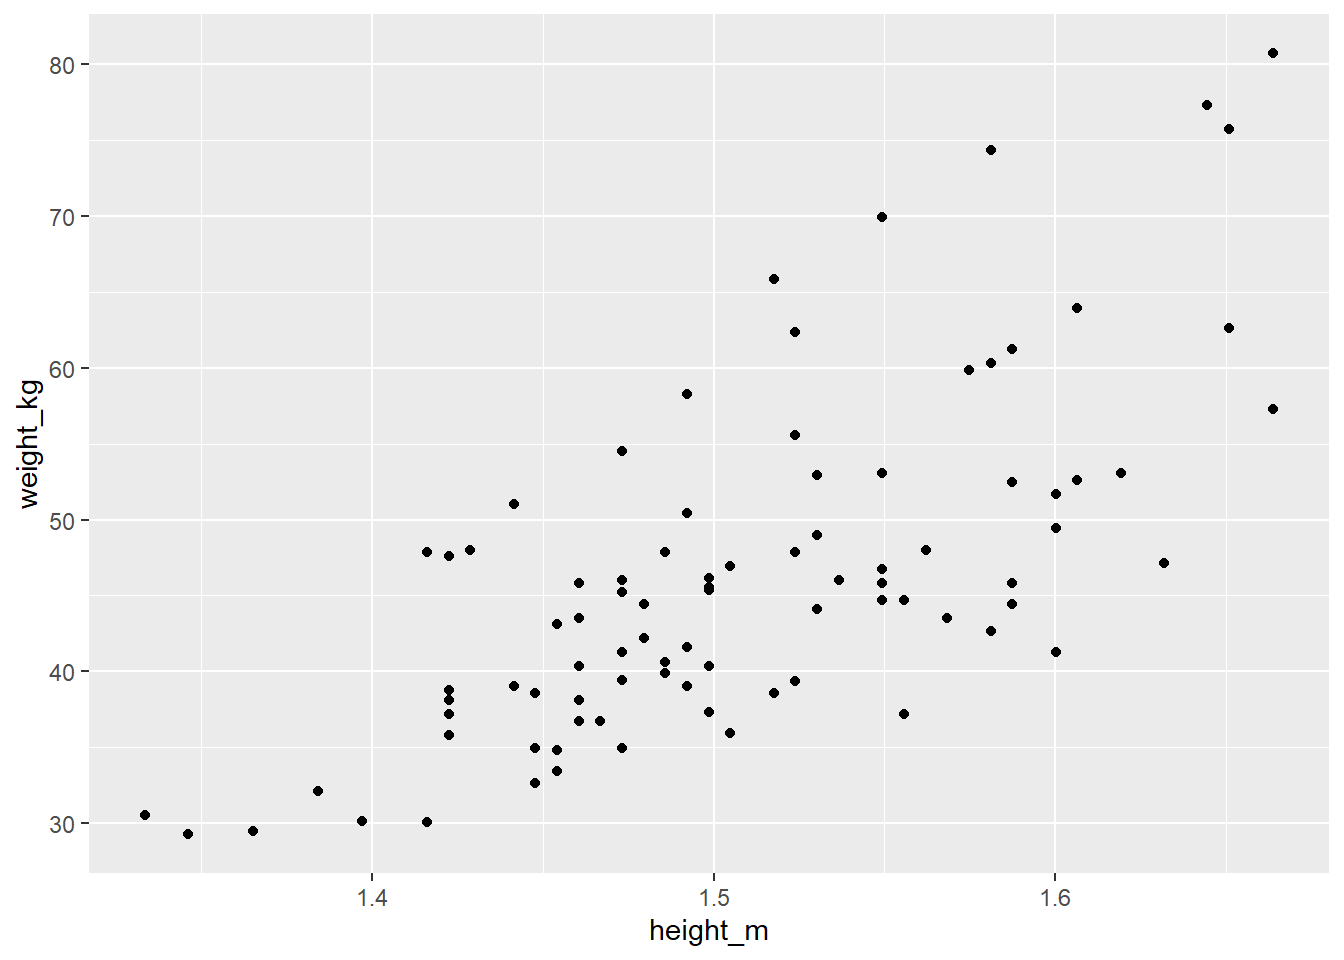
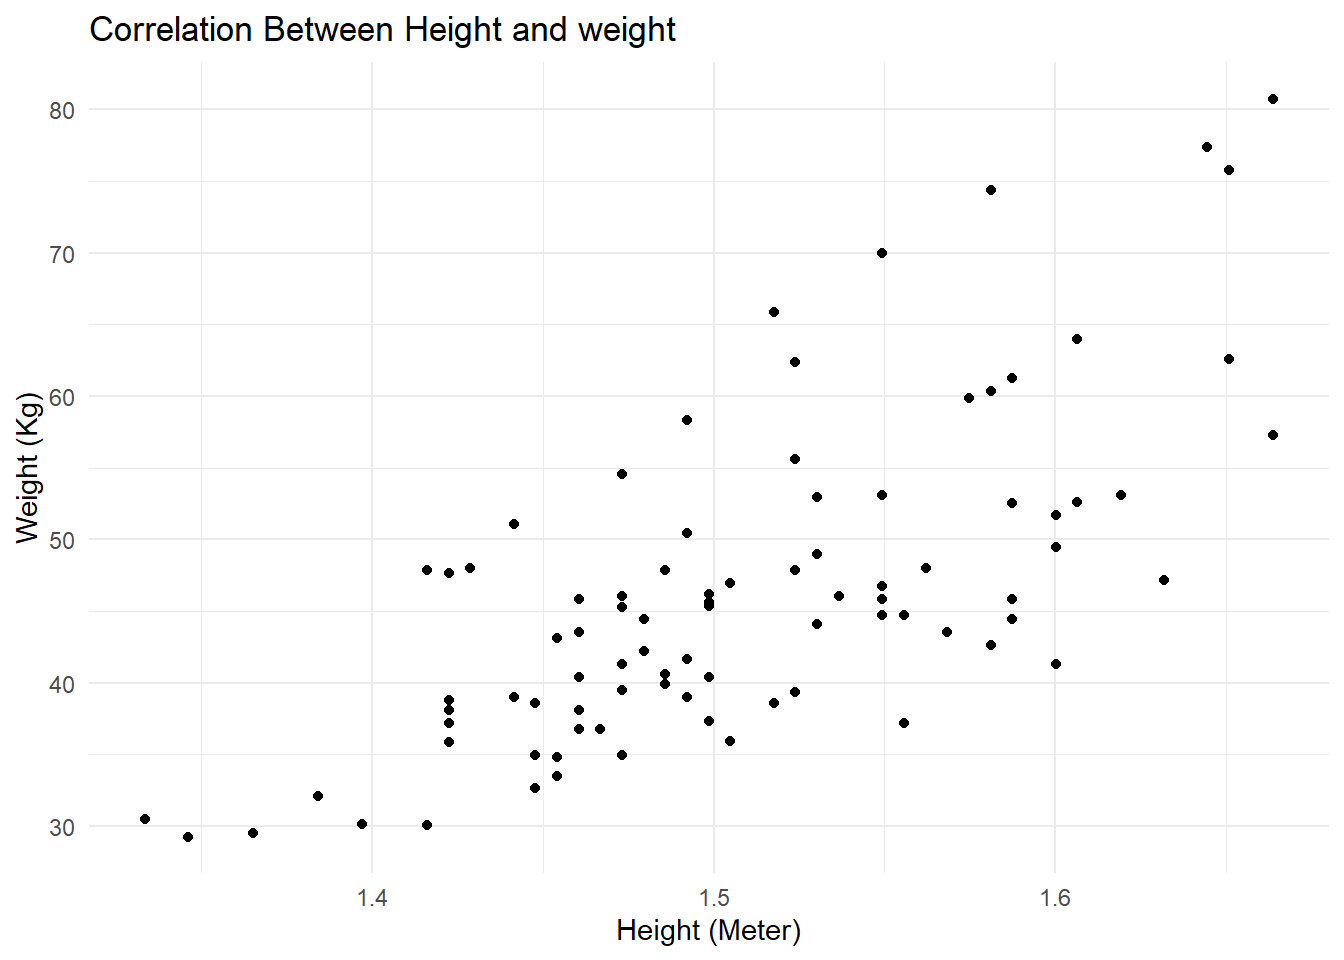
Editing spelling and graph formats

diff --git a/content/posts/2021-01-13- Correaltion/Correlation.html b/content/posts/2021-01-13- Correaltion/Correlation.html
@@ -3,6 +3,8 @@ title: "Correlation"
 author: "Saajan"
 date: "22/03/2021"
 output: html_document
+categories: ["Statistics"]
+tags: ["Correlation", "Machine Learning", "Regression"]
 ---
 
 <script src="/rmarkdown-libs/header-attrs/header-attrs.js"></script>
@@ -10,25 +12,33 @@ output: html_document
 
 <div id="correlation" class="section level1">
 <h1>Correlation</h1>
-<p>A Correaltion of two variables indicates that as one variable change in value, how the the other variable will change. For example Height and Weight are corealted, as height increases weight also tends to increase.</p>
-<p>In Statistics, Correaltion is a quantative assesment that measures the strength and direction. There are many types of correalation but for starter we will start with most common,The Pearson Correaltion coeffeicents.</p>
-<p>Scater-plot is a great way to quickly check relationship between two continuous variable.</p>
-<pre class="r"><code>#Load Library
-require(&quot;tidyverse&quot;)</code></pre>
-<pre class="r"><code># data manupulation
-
-ggplot(df,aes(height_m, weight_kg))+
-  geom_point()</code></pre>
+<p>A Correlation of two variables indicates that as one variable change in value, how the the other variable will change. For example Height and Weight are correlated, as height increases weight also tends to increase.</p>
+<p>In Statistics, Correlation is a quantitative assessment that measures the strength and direction. There are many types of correlation but for starter we will start with most common,The Pearson Correlation coefficients.</p>
+<p>Scaterrplot is a great way to quickly check relationship between two continuous variable.</p>
+<pre><code>## Loading required package: tidyverse</code></pre>
+<pre><code>## -- Attaching packages --------------------------------------- tidyverse 1.3.0 --</code></pre>
+<pre><code>## v ggplot2 3.3.2     v purrr   0.3.4
+## v tibble  3.0.4     v dplyr   1.0.2
+## v tidyr   1.1.2     v stringr 1.4.0
+## v readr   1.4.0     v forcats 0.5.0</code></pre>
+<pre><code>## -- Conflicts ------------------------------------------ tidyverse_conflicts() --
+## x dplyr::filter() masks stats::filter()
+## x dplyr::lag()    masks stats::lag()</code></pre>
+<pre class="r"><code>ggplot(df,aes(height_m, weight_kg))+
+  geom_point()+
+  labs(x = &quot;Height (Meter)&quot;, y = &quot;Weight (Kg)&quot;, title = &quot;Correlation Between Height and weight&quot;)+
+  theme_minimal()</code></pre>
 <p><img src="/posts/2021-01-13- Correaltion/Correlation_files/figure-html/unnamed-chunk-3-1.png" width="672" /></p>
-<p>By visualization, as the person height increase the weight of person increases. But its not a perfect relationship. we can also find there are some sort people who have weight higher than the taller person. however as height increases weight increases.</p>
-<p>Pearson correlation coefficients generally represented by rho (p) . This coefficients is a single number which measures both strength and direction of linear relationship for two variables. Correaltion values ranges between -1 to +1.</p>
+<p>By visualizing the graph,we can say that as the person height increase the weight of person increases. But its not a perfect relationship. we can also find there are some sort people who have weight higher than the taller person. however as height increases weight increases.</p>
+<p>Pearson correlation coefficients generally represented by rho <span class="math inline">\((\rho)\)</span> . This coefficients is a single number which measures both strength and direction of linear relationship for two variables. Correltion values ranges between -1 to +1.</p>
 <p><strong>Strength:</strong> The greater the <strong>absolute value</strong> greater the <strong>strength</strong>
-+ Extreme values +1 and -1 indicate a perfect linear relationship between two variables. A change in one variable is accompanied by a perfectly constient change in another.
++ Extreme values +1 and -1 indicate a perfect linear relationship between two variables. A change in one variable is accompanied by a perfectly constant change in another.
 + A coefficients of <strong>0</strong> represents no linear relationship</p>
 <p><strong>Direction:</strong> Coefficients sign represents the direction of relationship.
-+ Positive coefficients indicate when the value of one variable increases, other variable value also increases and vice-versa. In graph, it has <strong>upward slope</strong>.</p>
-<p>+Negative Coefficients indicate when the value of one variable increases, other variable value decreases and vice-versa. In graph, it has <strong>downward slop</strong>.</p>
-<p>Graphical Representation of Correaltion</p>
++ Positive coefficients indicate when the value of one variable increases, other variable value also increases and vice versa. In graph, it has <strong>upward slope</strong>.</p>
+<p>+Negative Coefficients indicate when the value of one variable increases, other variable value decreases and vice versa. In graph, it has <strong>downward slop</strong>.</p>
+<div id="graphical-representation-of-correltion" class="section level5">
+<h5>Graphical Representation of Correltion</h5>
 <ul>
 <li><p>1 and reverse</p></li>
 <li><p>.8</p></li>
@@ -39,24 +49,29 @@ ggplot(df,aes(height_m, weight_kg))+
 <p>Graphs are great way to visualize the data but scaling can exaggerate or weaken the appearance of a relationship. Plus Automatic scaling in most Statistical software make all data look similar.</p>
 <hr />
 <p>Pearson Correlation measure only the linear relationship. If however your data contain curvilinear relationship, lt will not detect it.</p>
-<p>TD: Parabolic reationship Graph.</p>
+</div>
+<div id="td-parabolic-relationship-graph." class="section level5">
+<h5>TD: Parabolic relationship Graph.</h5>
 <p>Example:</p>
-<p>However there is relationship between the varibales but not the linear one.</p>
+<p>However there is relationship between the variables but not the linear one.</p>
+</div>
 <div id="correaltion-doesnt-imply-causation" class="section level2">
 <h2>Correaltion doesn’t imply Causation</h2>
-<p>Correaltion between two variables indicates the the change in one variable associated with another variable. However it doesn’t imply that change in one variable <strong>actually causes</strong> the change in another variable.</p>
-<p>sometimes it is clear there is causal realtionship. For the height and weight data, adding more vertical structure to body causes the total mass increease. Increase the the wattage of bulbs increase the brightness of the bulb.</p>
-<p>But Ice cream sales and Shark attack are positively correalted, clearly selling ice cream not causes the shark attack or vice versa. Instead a third variable outdoor temperature causes changes in other two variables. Higher temperature increases more sales of ice creams and more swimmer in the sea, which leads to more shark attacks.</p>
+<p>Correltion between two variables indicates the the change in one variable associated with another variable. However it doesn’t imply that change in one variable <strong>actually causes</strong> the change in another variable.</p>
+<p>Sometimes it is clear there is causal relationship.
+* For the height and weight data, adding more vertical structure to body causes the total mass increase.
+* Increase the the wattage of bulbs increase the brightness of the bulb.</p>
+<p>Ice cream sales and Shark attack are positively correlated, but clearly selling ice cream not causes the shark attack or vice versa. Instead a third variable outdoor temperature causes changes in other two variables. Higher temperature increases more sales of ice creams and more swimmer in the sea, which leads to more shark attacks.</p>
 <div id="fun-facts" class="section level3">
 <h3>Fun facts:</h3>
-<p>In Regression, R squared of a pair of variables is simply the square of pearson coeffeicients.</p>
+<p>In Regression, R squared of a pair of variables is simply the square of pearson coefficients.</p>
 </div>
 </div>
 <div id="mathematic-calculation" class="section level2">
 <h2>Mathematic Calculation</h2>
-<p>heights = h1,h2,h3, …., hn
-weights = w1,w2,w3, ….., wn</p>
-<p>linear coefficient r = cov(heights, weights)/(std(heights), std(weights))</p>
+<p>heights = h1,h2,h3, …., <span class="math inline">\(h_n\)</span>
+weights = w1,w2,w3, ….., <span class="math inline">\(w_n\)</span></p>
+<p>linear coefficient <span class="math display">\[r = \frac {cov(heights,weights)}{std(heights)*std(weights)}\]</span></p>
 <p>here
 * cov: Covariance: Variance is the dispersion of a variable around the mean.
 * std: Standard Deviation: sqr root of variance</p>
